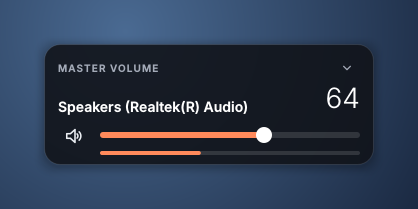
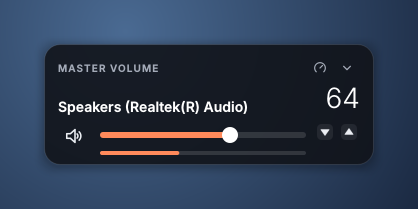
README and screenshots for the refinements
Claude-Session: https://claude.ai/code/session_0134w67QWVQxrmXkbUc9Kjid

diff --git a/README.md b/README.md
@@ -11,8 +11,10 @@ same themes, same placements, same right-click menu, so the two look like a set.
 | --- | --- |
 | ![Devices tab](docs/devices.png) | ![Apps tab](docs/apps.png) |
 
-- **Master volume, always on show**: slider, mute and a live level meter for
-  the default output. It follows Windows when you switch speakers.
+- **Master volume, always on show**: slider, arrows for 1% steps, mute and a
+  live level meter for the default output. It follows Windows when you switch
+  speakers, and keeps up within a fifth of a second when you use the
+  keyboard's volume keys or the Windows volume flyout.
 - **Devices tab**: every output (speakers, headphones, HDMI) and input
   (microphones), each with its own volume, mute and level meter.
   **Set default** makes any of them the Windows default.
@@ -23,9 +25,9 @@ same themes, same placements, same right-click menu, so the two look like a set.
 
   ![Master volume only](docs/compact.png)
 
-- **Stays in a fixed spot**: drag it where you want, then lock it. It can sit
-  on the desktop behind your windows, act like a normal window, or stay
-  always on top
+- **Stays in a fixed spot**: drag it where you want (it snaps neatly to the
+  screen edges), then lock it. It can sit on the desktop behind your windows,
+  act like a normal window, or stay always on top
 - **Runs all the time**: starts with Windows, sits in the tray, and has no
   taskbar button
 - **Two modes**: **Default** (the full mixer) and **Dials**, where you pick a
@@ -89,9 +91,10 @@ icon, and turns on **Start with Windows**.
 
 | To do this | Do this |
 | --- | --- |
-| Change a volume | Drag a slider, or scroll over it |
+| Change a volume | Drag a slider or click where you want it, or scroll over it (2% a notch, 1% with Shift) |
+| Nudge the master volume | Click (or hold) the arrows beside its slider |
 | Mute / unmute | Click the speaker (or microphone) icon |
-| Move the widget | Drag any empty part of it with the left mouse button |
+| Move the widget | Drag any empty part of it with the left mouse button; near a screen edge it snaps into place |
 | Stop accidental dragging | Right-click → **Lock position** |
 | Make a device the Windows default | Devices tab → **Set default** |
 | Show just the master volume | Click the arrow top-right, or right-click → **Master volume only** |
@@ -104,12 +107,18 @@ icon, and turns on **Start with Windows**.
 | Fine-tune a dial | Scroll over it, or Shift-drag up or down |
 | Reach the menu when the widget is covered | Click the icon in the system tray |
 | Open the Windows sound settings | Right-click → **Windows sound settings…** |
+| Turn the level meters off | Right-click → untick **Level meters** (saves a little power while sound plays) |
+| See which version you have | Right-click: it's shown above **Exit** |
 
 In **On the desktop** placement the widget stays behind your other windows.
 When you press Win+D or click the wallpaper, it comes forward so you can see
 it. **Bring the widget forward** in the menu does the same at any time.
 
 Clicking the widget never takes the focus away from what you're typing in.
+
+Scrolling a long list of devices or apps scrolls the list: the sliders only
+take the mouse wheel once the list has stopped and the mouse has rested on
+one, so you don't change a volume by accident on the way past.
 
 ## Settings file
 
@@ -127,6 +136,7 @@ locked = false        # true stops the widget being dragged
 opacity = 0.85        # background, 0.3 to 1.0
 tab = "devices"       # devices | apps
 compact = false       # true shows the master volume only
+meters = true         # false hides the live level meters
 accent = "#2EC4B6"    # optional: your own accent colour
 
 dial_device = "default"   # what the device dial controls; "default" follows Windows
@@ -158,22 +168,45 @@ python run.py
 Linux too, which is handy for working on the look. `--settings PATH` uses a
 different settings file.
 
+## Checking it works on your PC
+
+```bash
+VolumeMixer.exe --self-test result.txt
+```
+
+runs through the real Windows parts (your sound devices and apps, the three
+placements, Start with Windows, every theme, mode and size) for a few seconds
+and writes what it found to `result.txt`. It doesn't change anything: volumes
+are written back with the values they already have, Start with Windows is put
+back as it was, and it uses its own throwaway settings.
+
 ## Build the .exe yourself
 
 ```bash
-pyinstaller run.py --name VolumeMixer --onefile --windowed --noconfirm ^
-  --icon assets/icon.ico --add-data "assets;assets" --paths src ^
-  --collect-submodules pycaw
+pip install -r requirements-dev.txt
+pyinstaller VolumeMixer.spec --noconfirm
 ```
 
-The file appears in `dist\VolumeMixer.exe`.
+The file appears in `dist\VolumeMixer.exe`. `VolumeMixer.spec` is the recipe:
+it packs Python, Qt and the code into one file and leaves out the parts the
+widget never uses (software OpenGL, SSL, Qt's translations and unused
+plugins). A one-file exe unpacks itself every time it starts, so that keeps
+the download at about 24 MB instead of 41 MB and makes it start faster.
 
 ## Releasing a new version
 
-GitHub Actions (`.github/workflows/build.yml`) runs the tests and builds the
-.exe on every push. To publish a download, create a release on GitHub with a
-new tag such as `v1.2.0`; the workflow attaches `VolumeMixer.exe` to it a
-couple of minutes later.
+Create a release on GitHub with a new tag such as `v2.1.0`. GitHub Actions
+(`.github/workflows/build.yml`) then, on a Windows machine:
+
+1. runs the tests,
+2. builds `VolumeMixer.exe`, with the version taken from the tag (`v2.1.0`
+   becomes 2.1.0 inside the app),
+3. installs a virtual sound card, plays a sound, and runs the exe's
+   `--self-test`,
+4. attaches the exe to the release, but only if the self-test passed.
+
+It takes about three minutes. The same happens on every push, minus the
+release, and the result shows on the Actions tab.
 
 ## Tests
 
@@ -184,8 +217,10 @@ python -m pytest -q tests
 The tests drive the real widget against the demo audio backend, so they run on
 any OS without a sound card. They cover the volume controls, every theme,
 sizes, the dials (picking devices and apps, turning knobs, apps closing and
-coming back), dragging and locking, compact mode, and the settings file
-(including mistakes in it).
+coming back), the mouse wheel and touchpads, staying in step with outside
+volume changes, dragging, snapping and locking, compact mode, and the settings
+file (including mistakes in it). The Windows-only parts are covered by the
+self-test, which the build runs on Windows.
 
 ## How it works
 
@@ -200,10 +235,13 @@ coming back), dragging and locking, compact mode, and the settings file
 | `src/volume_mixer/config.py` | Settings: TOML load/save, defaults, and keeping values in range |
 | `src/volume_mixer/icons.py` | Icons drawn in code in the theme's colours |
 | `src/volume_mixer/demo_audio.py` | Pretend audio system for `--demo` and the tests |
+| `src/volume_mixer/selftest.py` | `--self-test`: checks the real Windows parts and reports what it found |
+| `VolumeMixer.spec` | How the one-file exe is put together, and what's left out of it |
 
-The widget polls Windows once a second for device and app changes and 20 times
-a second for the level meters, all on the UI thread, so there are no COM
-threading issues.
+The widget re-reads the lists of devices and apps once a second, the volumes
+on show five times a second, and the level meters 20 times a second, all on
+the UI thread, so there are no COM threading issues. The panel behind the
+controls is drawn once and reused, so the meters are cheap to redraw.
 
 ## Licence
 
